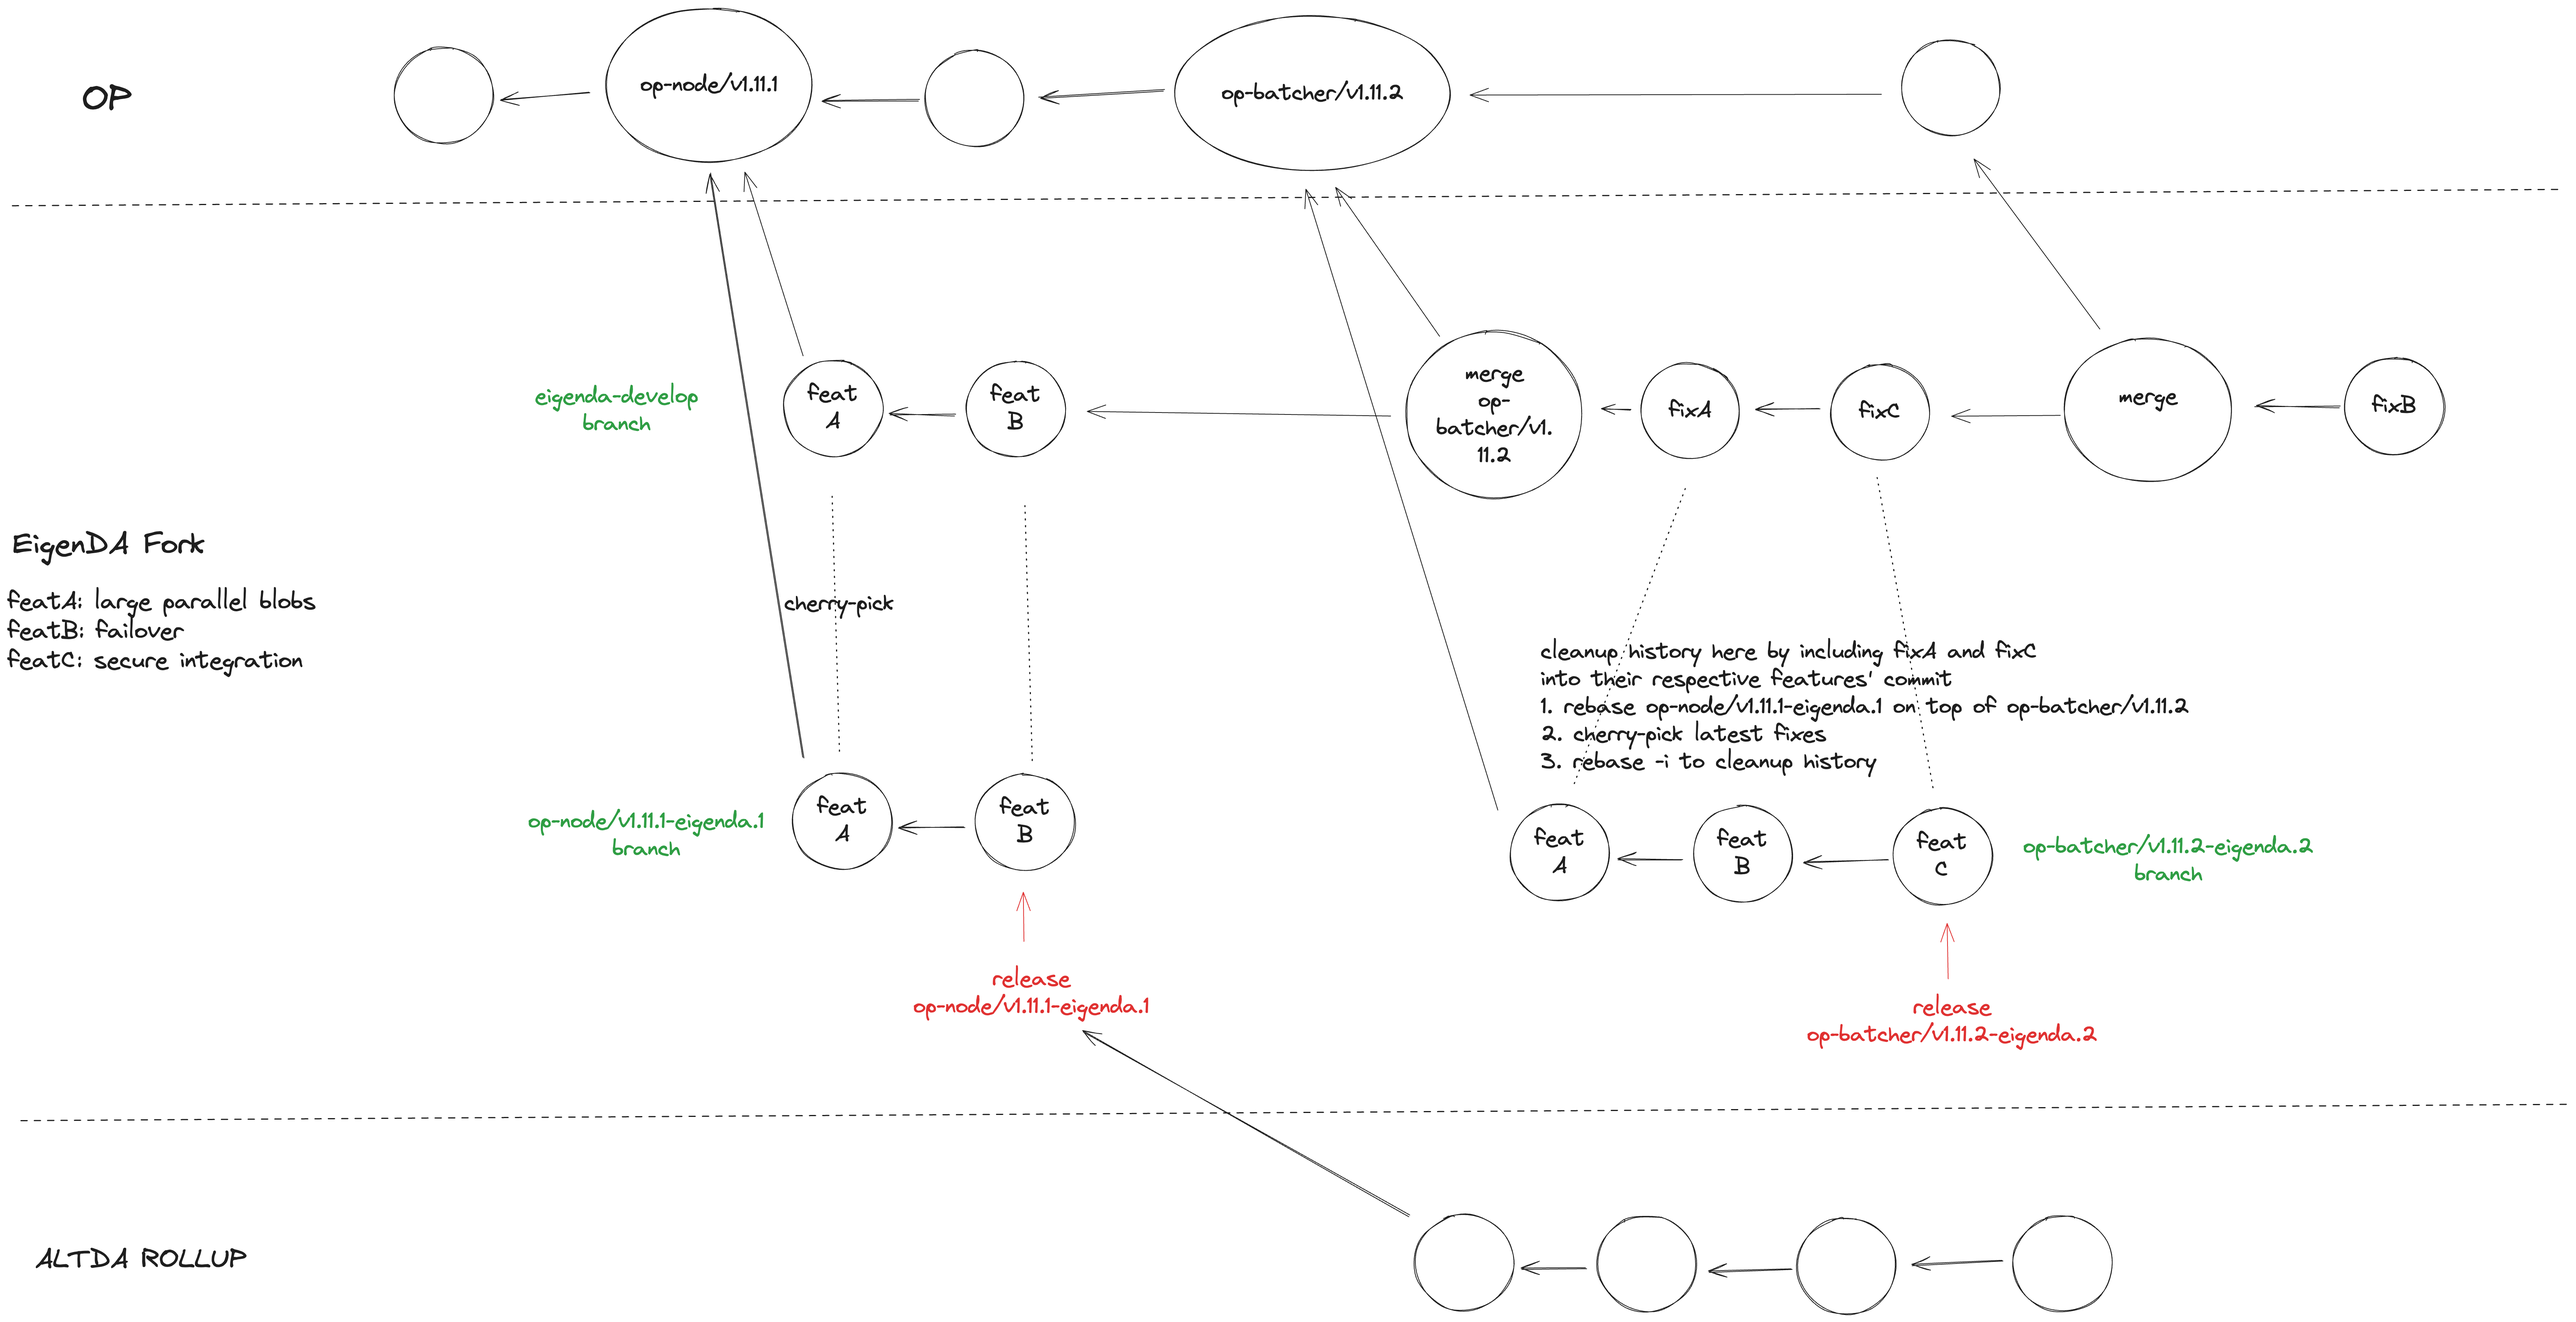
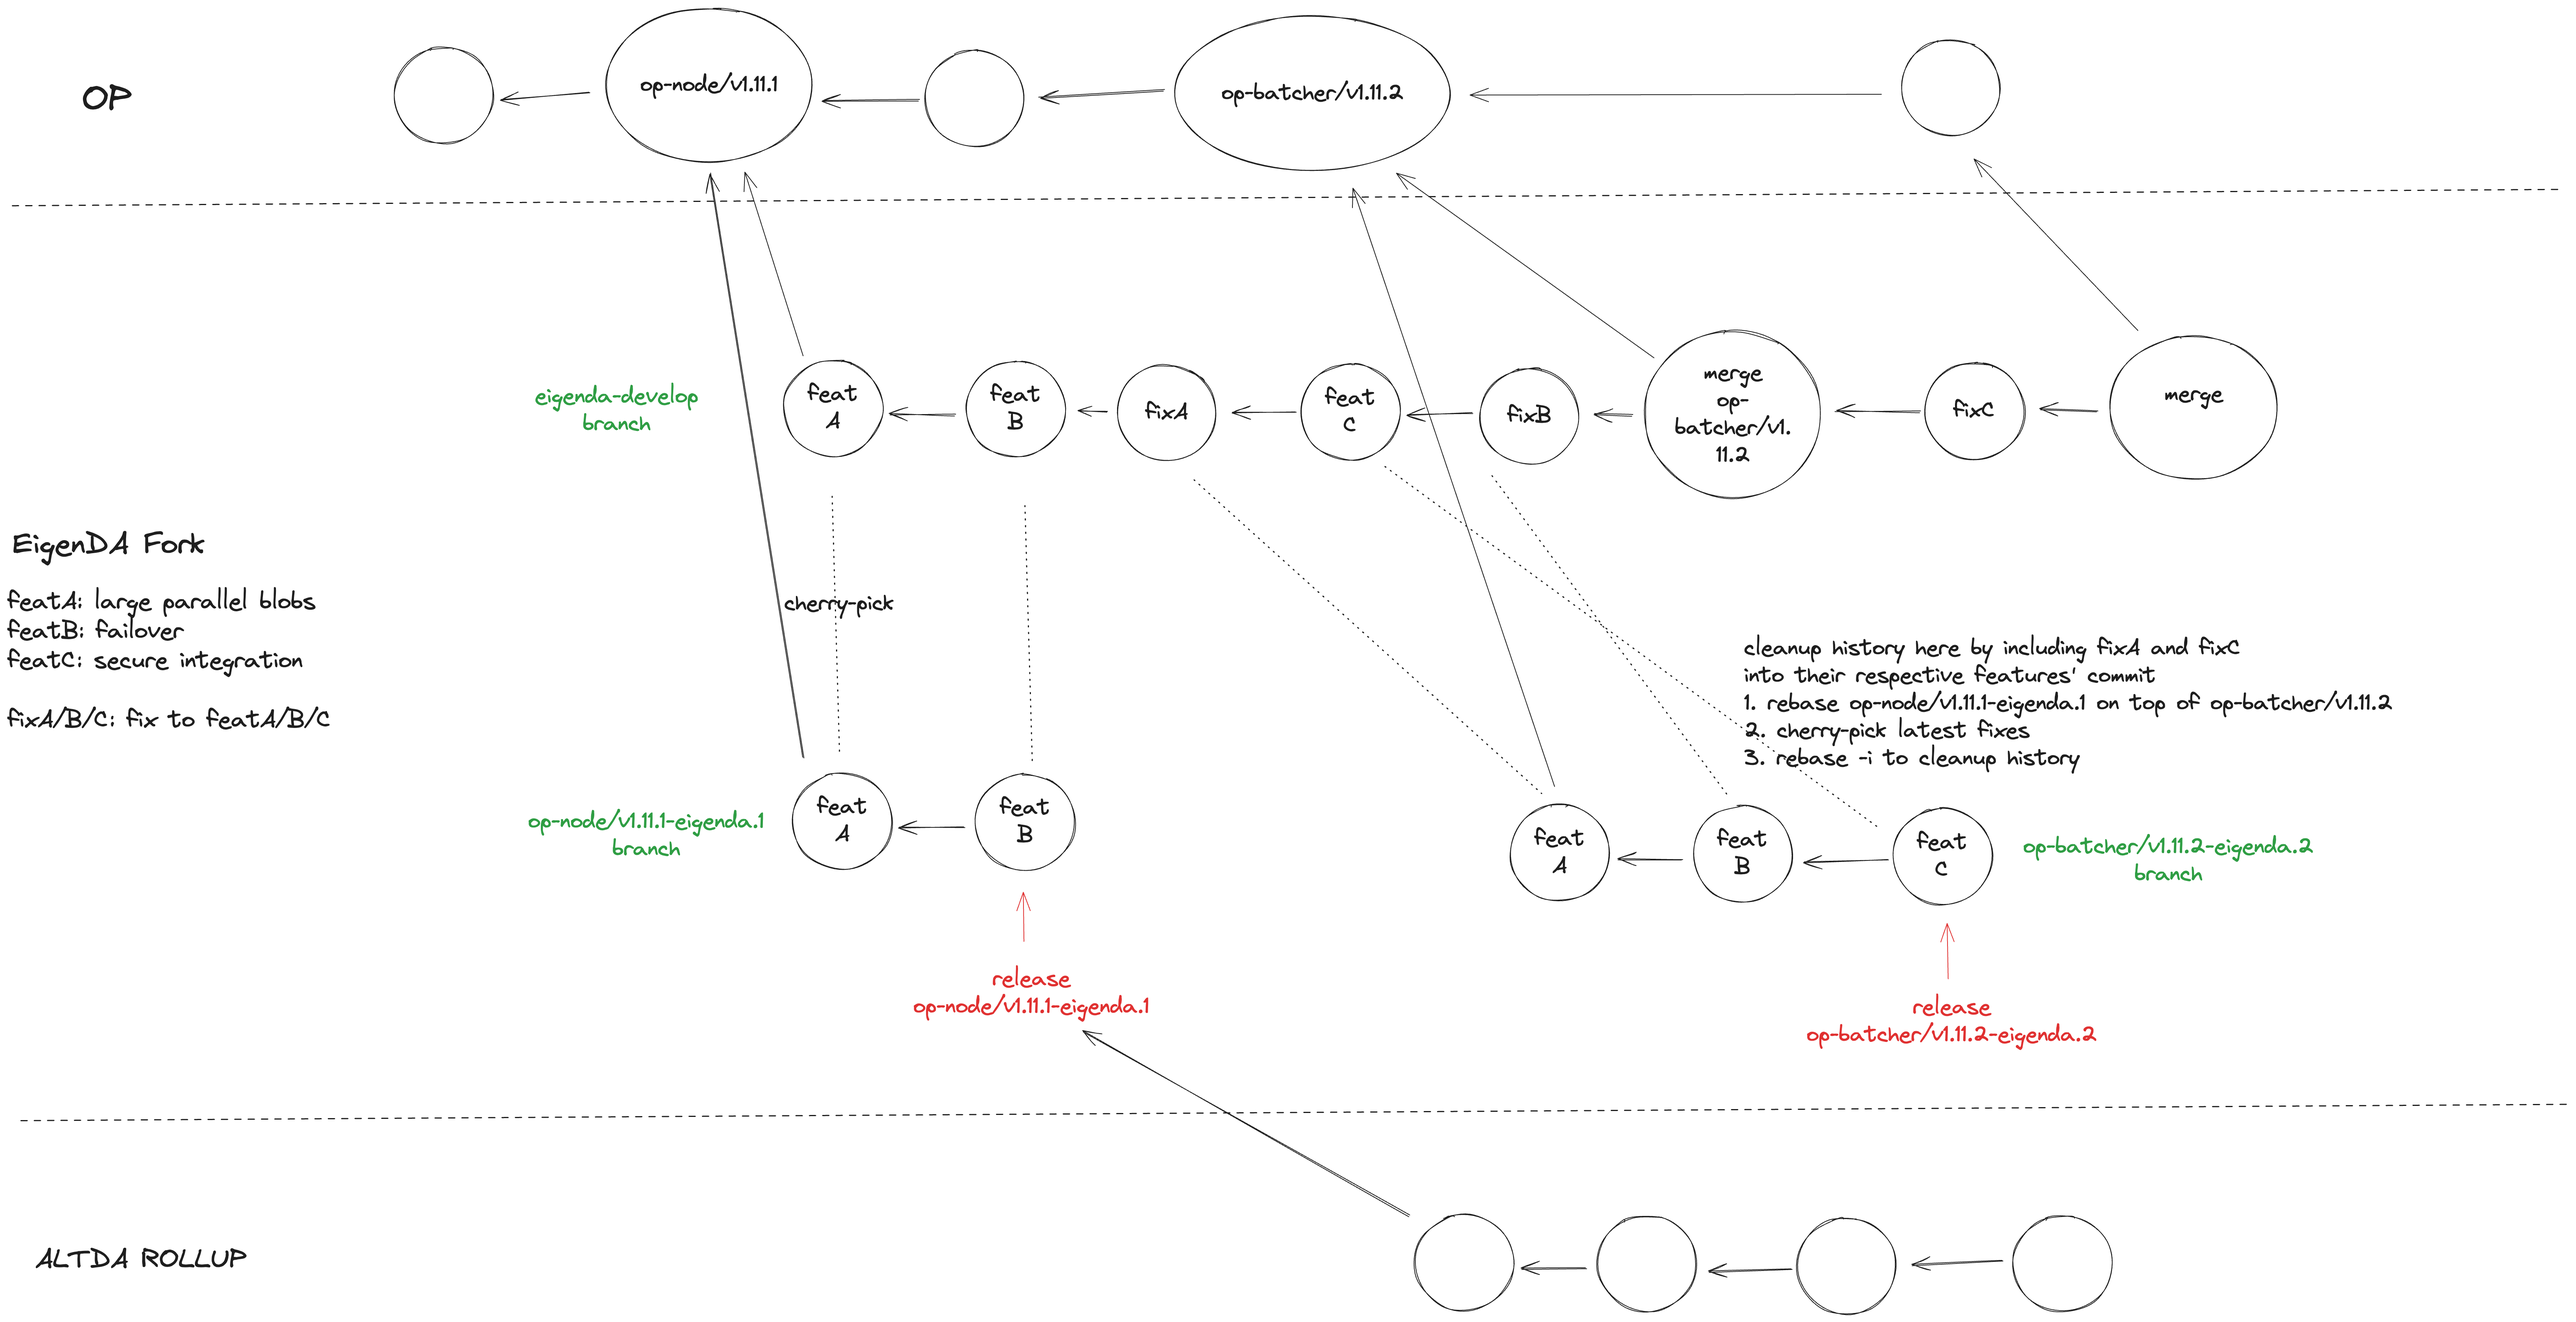
docs: add forkdiff
ci: add workflow to publish forkdiff as github page

docs(readme): where fits -> where applicable

docs(readme): fix grammar

docs(readme): fix run-on-sentence

docs(readme): update branching/release image

docs(readme): fix fork release image

docs: add fork release runbook

docs(readme): explain why we maintain the eigenda-develop branch

docs(readme): fix typos

diff --git a/README.md b/README.md
@@ -5,6 +5,8 @@
 [![golang](https://github.com/Layr-Labs/optimism/actions/workflows/test-golang.yml/badge.svg)](https://github.com/Layr-Labs/optimism/actions/workflows/test-golang.yml)
 [![kurtosis](https://github.com/Layr-Labs/optimism/actions/workflows/kurtosis-devnet.yml/badge.svg)](https://github.com/Layr-Labs/optimism/actions/workflows/kurtosis-devnet.yml)
 
+[ForkDiff](https://layr-labs.github.io/optimism)
+
 This is repo contains our fork of [optimism](https://github.com/ethereum-optimism/optimism) to support EigenDA.
 
 - [EigenDA powered Optimism-Fork](#eigenda-powered-optimism-fork)
@@ -61,11 +63,11 @@ OP uses circleci for CI, but we migrated to github actions for this fork. The un
 
 ### Unit Tests
 
-For each feature we add simple unit tests where fits.
+For each feature we add simple unit tests where applicable.
 
 ### op-e2e Tests
 
-We also add integration tests using op-e2e's framework. These tests are very useful as they are run purely in golang in a single process with very fast block times, but they are limited in that proxy is not spin up and the batcher available there is only a fake.
+We also add integration tests using op-e2e's framework. These tests are very useful as they are run purely in golang in a single process with very fast block times, but they are limited in that proxy is not spun up and the batcher available there is only a fake.
 
 ### Kurtosis Devnet Tests
 
@@ -91,6 +93,10 @@ Available recipes:
 
 ## Releases and Branching Strategy
 
-We maintain an `eigenda-develop` branch which is our main development branch which keeps a linear history containing new feature work, fixes, as well as upstream merges. To make downstream integrations easier, we create release-specific branches which contain cleaned up history of commits on top of a specific upstream release. For example, the second eigenda-fork release in the below picture would be named `op-batcher/v1.11.2-eigenda.2`, and will consist of a cleaned-up history of commits (one per feature/service pair) on top of the upstream [op-batcher/v1.11.2](https://github.com/ethereum-optimism/optimism/releases/tag/op-batcher%2Fv1.11.2) release. We will strive to make our releases on top of op [production releases](https://github.com/ethereum-optimism/optimism?tab=readme-ov-file#production-releases), unless an urgent fix is needed.
+Our main development branch, `eigenda-develop`, contains a linear history with new feature work and fixes, as well as upstream merges. We maintain this branch to be able to track the entire history of our fork changes. It might also be useful for some teams who want to use our fork directly as their upstream, so that they can just merge/rebase our latest changes (which will incorporate the OP changes as well).
+
+For teams that want/need more flexibility in how they manage their own fork, we also create release-specific branches which contain cleaned up history of commits on top of a specific upstream release. For example, the second eigenda-fork release in the picture below would be named `op-batcher/v1.11.2-eigenda.2`, and will consist of a cleaned-up history of commits (one per feature/service pair) on top of the upstream [op-batcher/v1.11.2](https://github.com/ethereum-optimism/optimism/releases/tag/op-batcher%2Fv1.11.2) release. We will strive to make our releases on top of op [production releases](https://github.com/ethereum-optimism/optimism?tab=readme-ov-file#production-releases), unless an urgent fix is needed.
 
 ![](./assets/fork-branching-and-releases.png)
+
+Fork developers should consult the [Fork Release Runbook](./docs/handbook/fork-release-runbook.md) for more details on how to make a new release.

diff --git a/docs/handbook/fork-release-runbook.md b/docs/handbook/fork-release-runbook.md
@@ -1,0 +1,37 @@
+# Fork Release Runbook
+
+This document describes the process for releasing a new version of the EigenDA powered Optimism-Fork. This adds details to the explanation in the main [README](../../README.md#releases-and-branching-strategy).
+
+![](../../assets/fork-branching-and-releases.png)
+
+## Example Release For op-batcher/v1.11.2-eigenda.2
+
+First we update the eigenda-develop branch:
+
+```bash
+git checkout eigenda-develop
+git checkout -b merge-op-batcher/v1.11.2
+git merge op-batcher/v1.11.2
+# fix any conflicts or new issues after the merge
+git commit -a -m "chore: fix issues after merging op-batcher/v1.11.2"
+git push
+# Create a PR to get review on the fixes/new stuff - make sure to merge with merge commit
+```
+
+Then we make the cleaned-up release branch/tag:
+
+```bash
+git checkout op-node/v1.11.1-eigenda.1
+git checkout -b op-batcher/v1.11.2-eigenda.2
+git rebase op-batcher/v1.11.2
+# cherry pick all the new commits (including the fixes after the merge)
+# Can also do it manually: `git cherry-pick <fixA> <featC> <fixB>`
+git cherry-pick op-node/v1.11.1-eigenda.1^..eigenda-develop
+# cleanup history
+git rebase -i op-batcher/v1.11.2
+# tag the release
+git tag op-batcher/v1.11.2-eigenda.2
+git push --tags
+```
+
+Can also do the rebase first if that is preferred. In any case, make sure after both are done to make sure that they contain the same content by checking that `git diff eigenda-develop op-batcher/v1.11.2-eigenda.2` is empty.
